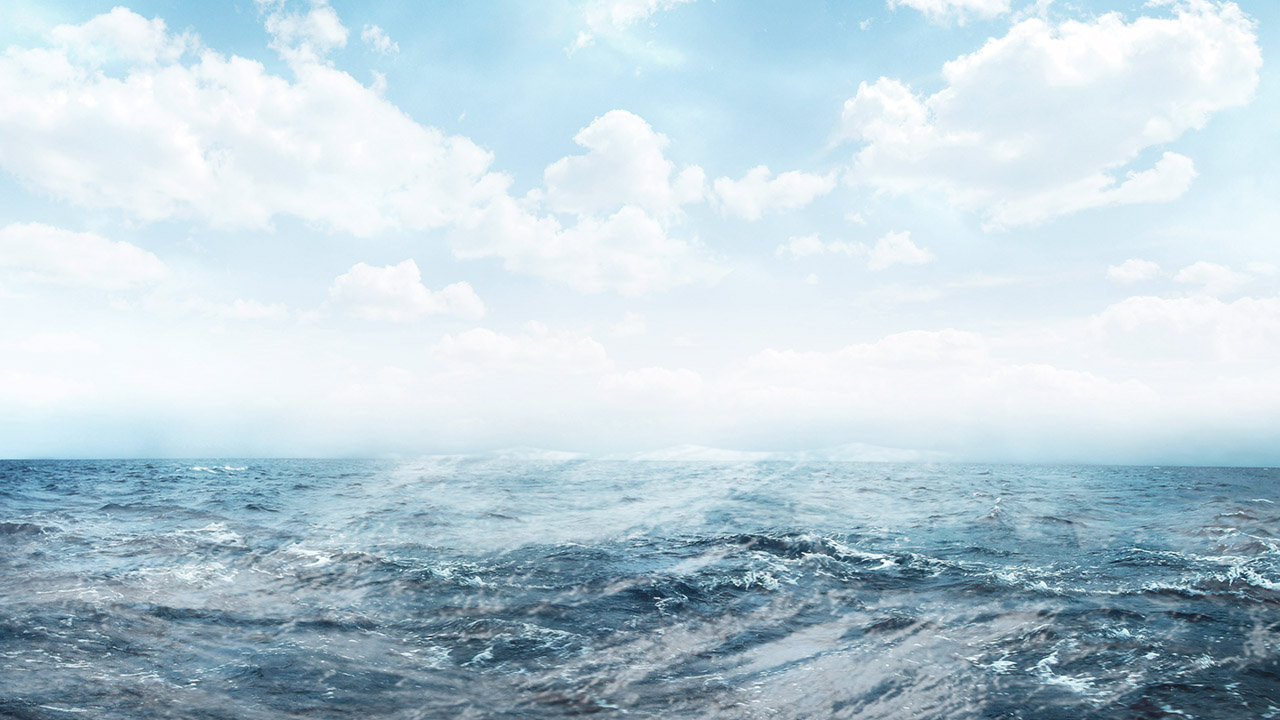
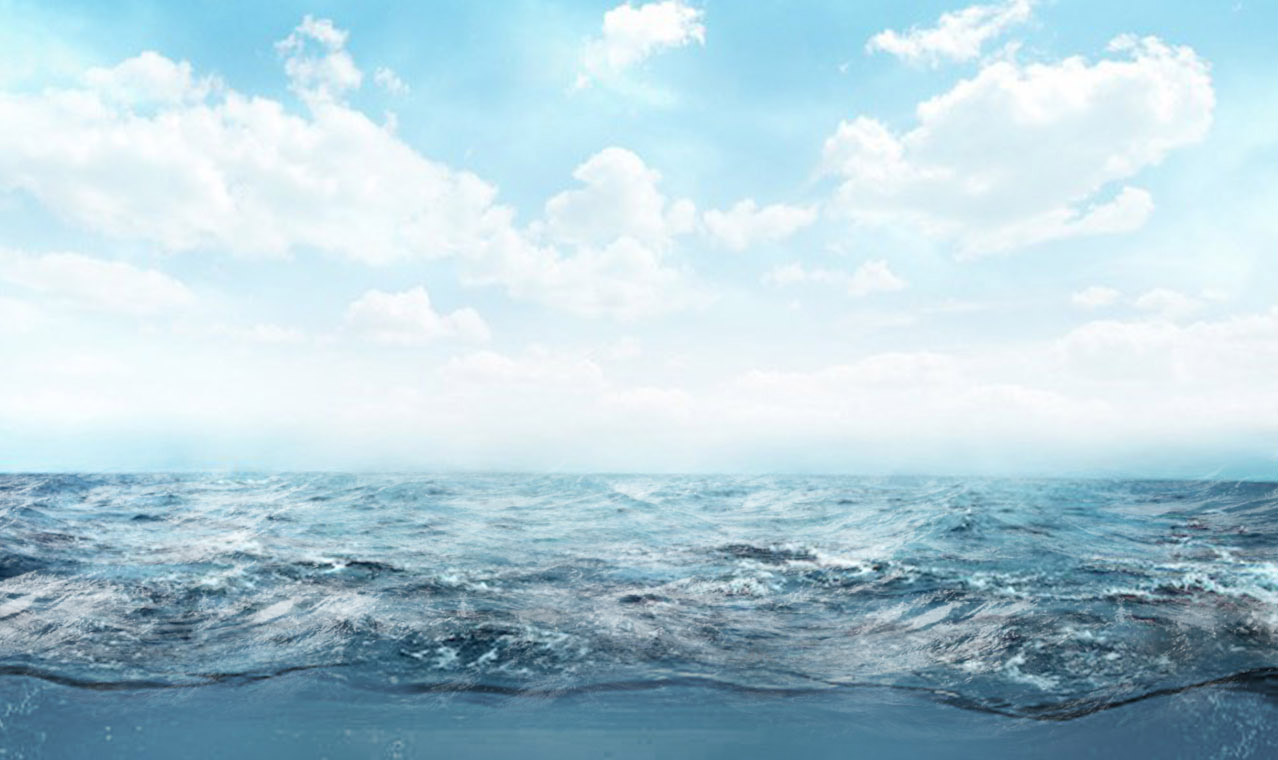
First set

diff --git a/src/scss/modules/_m-tour.scss b/src/scss/modules/_m-tour.scss
@@ -1,0 +1,52 @@
+// _m-tour.scss
+.tour {
+  position: relative;
+  margin-top: -110px;
+
+  &__wrapper {
+    position: relative;
+    margin-top: -100px;
+    display: flex;
+    flex-wrap: wrap;
+    justify-content: center;
+    flex-direction: column;
+  }
+
+  &__item {
+    display: flex;
+    justify-content: center;
+
+    & + & {
+      margin-top: 30px;
+    }
+  }
+
+  &__img {
+    position: relative;
+    top: -20px;
+    margin-right: 30px;
+
+    img {
+      width: 100px;
+      height: 100px;
+    }
+  }
+
+  &__content {
+
+  }
+
+  &__date {
+    color: color('secondary');
+    font-family: font('secondary');
+    @include font-size(30px)
+  }
+
+  &__place {
+    @include font-size(30px);
+    font-family: font('primary');
+    color: color('background');
+    text-transform: uppercase;
+    font-weight: 700;
+  }
+}

diff --git a/src/scss/modules/_m-player.scss b/src/scss/modules/_m-player.scss
@@ -1,0 +1,39 @@
+// _m-player.scss
+
+.player {
+  display: flex;
+  flex-direction: column;
+  justify-content: center;
+  align-items: center;
+  margin-bottom: 50px;
+
+  &__visual {
+    position: relative;
+    width: 300px;
+    height: 300px;
+    margin: 40px 0;
+  }
+
+  &__cover {
+    position: relative;
+    left: -50px;
+    z-index: 2;
+    img {
+      width: 300px;
+      box-shadow: 0px 0px 80px 0px rgba(0,0,0,0.75);
+    }
+  }
+
+  &__record {
+    position: absolute;
+    width: 280px;
+    height: 280px;
+    top: 0;
+    left: 90px;
+    z-index: 1;
+
+    img {
+      width: 280px;
+    }
+  }
+}

diff --git a/src/scss/components/_c-title.scss b/src/scss/components/_c-title.scss
@@ -1,12 +1,11 @@
 // _c-title.scss
 
 .title {
-  font-family: font('primary');
-  margin: 15px 0;
+  font-family: font('secondary');
+  padding: 90px 0;
+  background: url("../img/scratch.png") center/cover;
+  text-align: center;
 
-  .card & {
-    margin-top: 0;
-  }
 
   &--primary { // h1 and primary level titles
     @include font-size(30px);
@@ -16,5 +15,9 @@
   &--secondary { // h2 and secondary level titles
     @include font-size(20px);
     color: color('secondary');
+  }
+
+  &--first {
+    margin-top: -70px;
   }
 }

diff --git a/src/scss/modules/_m-banner.scss b/src/scss/modules/_m-banner.scss
@@ -1,0 +1,16 @@
+// _banner.scss
+
+.banner {
+  display: flex;
+  flex-direction: column;
+  justify-content: center;
+  align-items: center;
+  width: 100%;
+  min-height: 300px;
+  background: url('../img/ocean.jpg') center/cover;
+
+  &__boat {
+    width: 500px;
+    margin-bottom: 50px;
+  }
+}

diff --git a/src/scss/modules/_m-bio.scss b/src/scss/modules/_m-bio.scss
@@ -1,0 +1,13 @@
+// _m-bio.scss
+
+.bio {
+  &__headline {
+    margin: 50px;
+    line-height: em(30px, 20px);
+    font-family: font('primary');
+    color: color('background');
+    @include font-size(30px);
+    text-align: center;
+    text-transform: uppercase;
+  }
+}

diff --git a/src/scss/_modules.scss b/src/scss/_modules.scss
@@ -8,4 +8,8 @@
 @import "modules/m-wip";
 @import "modules/m-menu";
 @import "modules/m-social-media";
+@import "modules/m-banner";
+@import "modules/m-player";
+@import "modules/m-tour";
+@import "modules/m-bio";
 

diff --git a/src/scss/_components.scss b/src/scss/_components.scss
@@ -6,3 +6,4 @@
 @import "components/c-site-logo";
 @import "components/c-burger";
 @import "components/c-pagination";
+@import "components/c-logo";

diff --git a/src/scss/components/_c-logo.scss b/src/scss/components/_c-logo.scss
@@ -1,0 +1,10 @@
+// _c-logo
+.logo {
+  margin-top: 25px;
+  margin-left: 50px;
+  margin-bottom: 25px;
+
+  img {
+    width: 400px;
+  }
+}

diff --git a/src/scss/base/_base.scss b/src/scss/base/_base.scss
@@ -5,5 +5,6 @@ html {
 }
 
 body {
+  background: #477690;
   @include font-size(16px);
 }

diff --git a/src/index.php b/src/index.php
@@ -35,15 +35,79 @@
     </a>
   </div><!--/.social-media-->
 </div><!--/.header-->
+<div class="banner">
+    <div class="logo">
+        <img src="img/logo.png" alt="logo captain a. duck">
+    </div>
+    <div class="banner__boat">
+        <img src="img/boat.png" alt="bateau">
+    </div>
+</div><!--/.banner-->
+<article class="wrapper">
+    <h2 class="title title--first">Nouvel Album</h2>
+    <div class="player">
+        <div class="player__visual">
+            <div class="player__cover">
+                <img src="img/cover.jpg" alt="cover">
+            </div>
+            <div class="player__record">
+                <img src="img/record.png" alt="record">
+            </div>
+        </div><!--/.player-->
+        <iframe
+                src="https://open.spotify.com/embed/album/0azwYbDZAyqaP0yaekHGbD"
+                width="400" height="280"
+                frameborder="0" allowtransparency="true"
+                allow="encrypted-media">
 
-<div class="wip">
-  <h1 class="wip__title">
-    <span class="visually-hidden">Captain A. Duck</span>
-    <img src="img/logo-captain-a-duck.png" alt="Logo Captain A. Duck" class="wip__logo">
-  </h1>
-  <p class="wip__soon">Coming soon ...</p>
-  <div class="wip__boat"></div>
-</div>
+        </iframe>
+    </div>
+</article><!--/.wrapper-->
+
+<article class="wrapper">
+    <h2 class="title">Tour dates</h2>
+    <div class="tour">
+        <img src="img/band.png" alt="band">
+        <div class="tour__wrapper">
+            <div class="tour__item">
+                <div class="tour__img">
+                    <img src="img/picto-boat.png" alt="picto boat">
+                </div>
+                <div class="tour__content">
+                    <div class="tour__date">
+                        11 novembre 2018
+                    </div>
+                    <div class="tour__place">
+                        Le Barde Atomique (78)
+                    </div>
+                </div>
+            </div><!--/.tour__item-->
+            <div class="tour__item">
+                <div class="tour__img">
+                    <img src="img/picto-boat.png" alt="picto boat">
+                </div>
+                <div class="tour__content">
+                    <div class="tour__date">
+                        11 novembre 2018
+                    </div>
+                    <div class="tour__place">
+                        Le Barde Atomique (78)
+                    </div>
+                </div>
+            </div><!--/.tour__item-->
+        </div><!--/.tour__wrapper-->
+    </div><!--/.tour-->
+</article><!--/.wrapper-->
+
+<article class="wrapper">
+    <h2 class="title">Bio</h2>
+    <div class="bio">
+        <div class="bio__headline">
+            Captain A.Duck est un groupe de <br>
+            rock parisien composé de 4 membres
+        </div>
+    </div><!--/.bio-->
+</article><!--/.wrapper-->
 <script src="js/bundle.js"></script>
 </body>
 </html>
